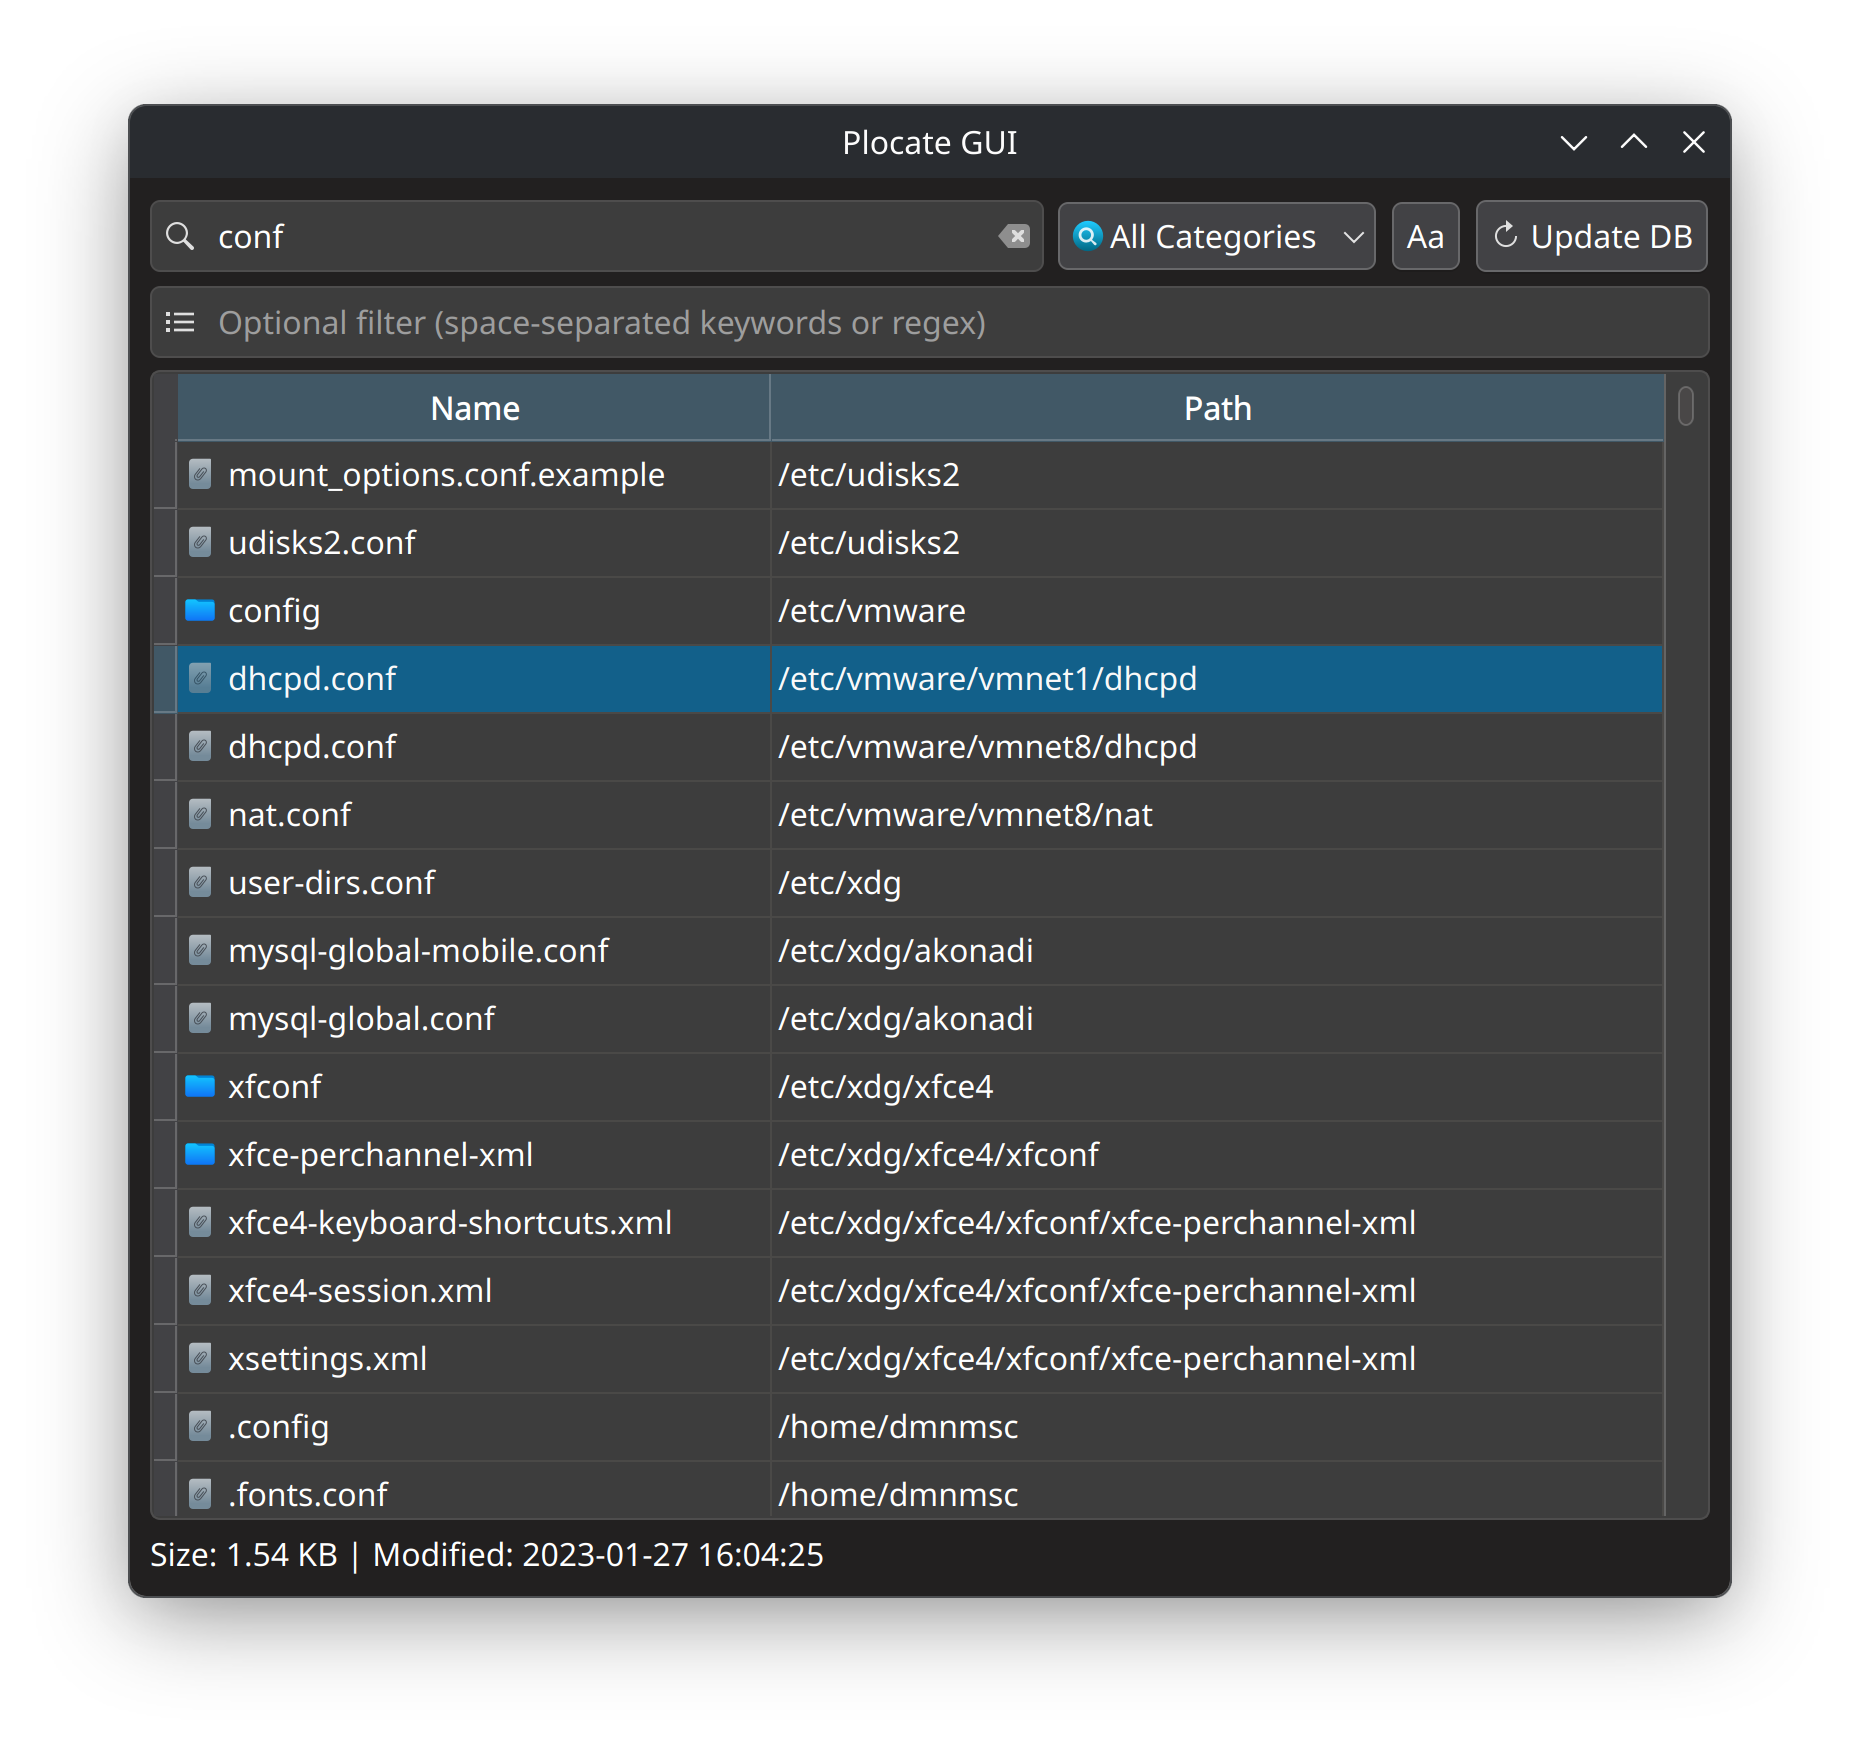
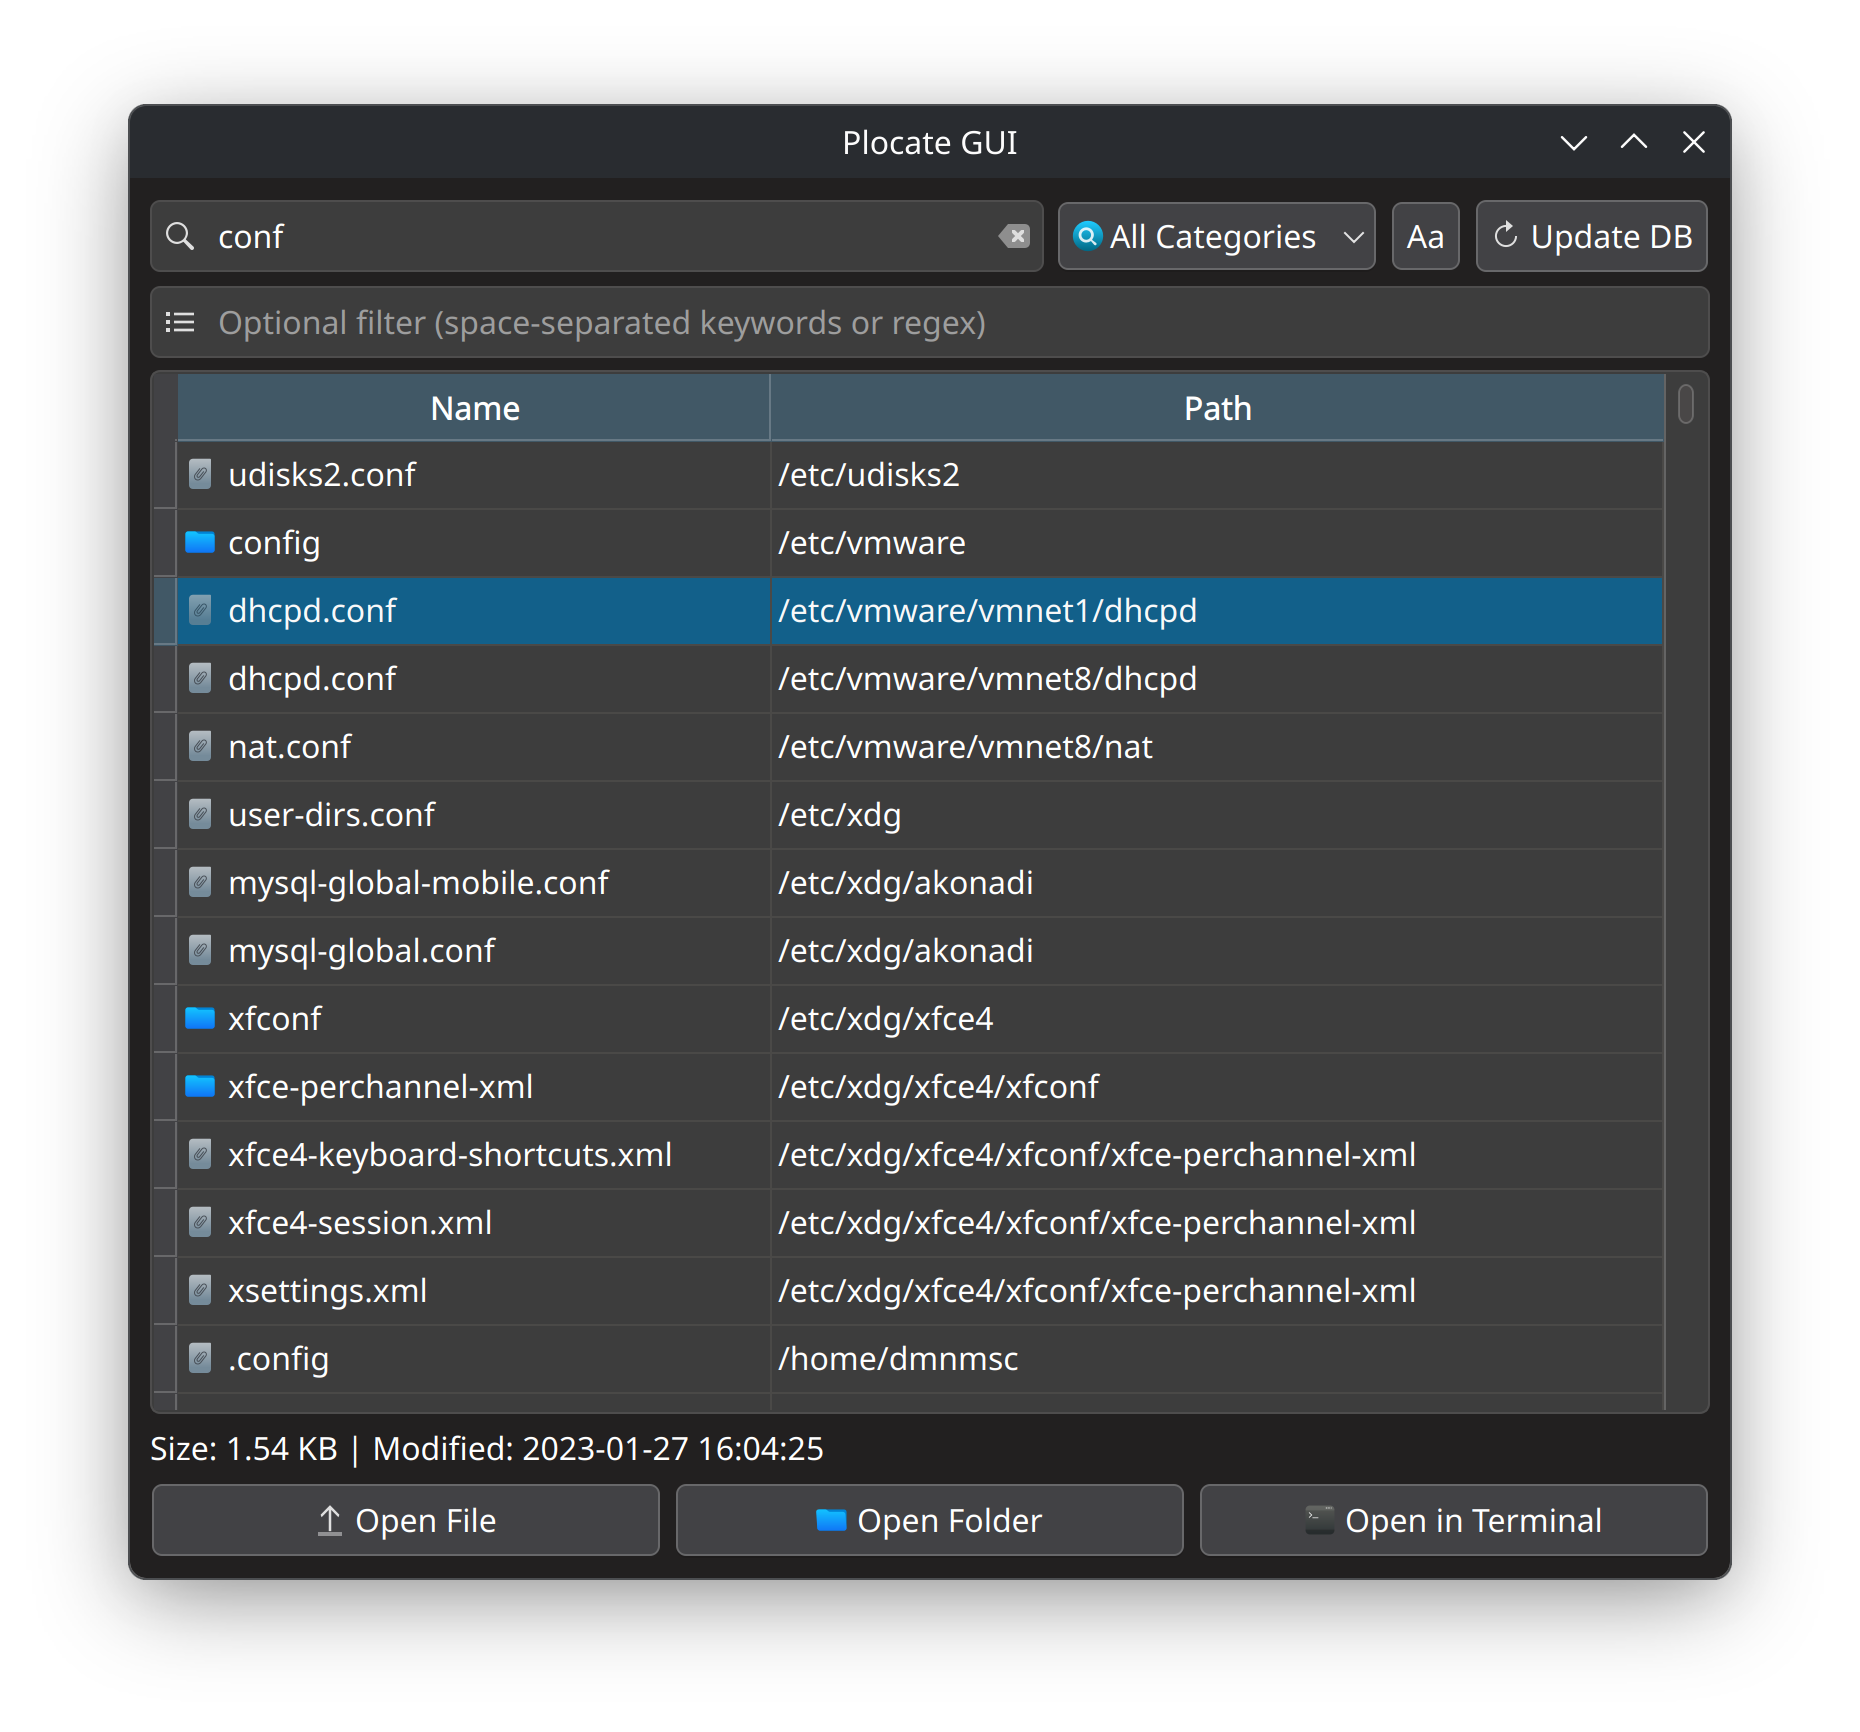
feat: reimplement buttons

diff --git a/plocate-gui.py b/plocate-gui.py
@@ -663,6 +663,33 @@ class PlocateGUI(QWidget):
         # Add the horizontal layout to the main vertical layout
         main_layout.addLayout(status_bar_layout)
 
+        # --- ACTION BUTTONS CONTAINER ---
+        btn_layout = QHBoxLayout()
+
+        # Action Buttons with system icons
+        self.open_file_btn = QPushButton(_("Open File"))
+        self.open_file_btn.setIcon(QIcon.fromTheme("document-open"))
+        self.open_file_btn.setToolTip("ENTER")
+        self.open_file_btn.setToolTipDuration(1500)
+        self.open_file_btn.clicked.connect(self.open_file)
+        btn_layout.addWidget(self.open_file_btn)
+
+        self.open_path_btn = QPushButton(_("Open Folder"))
+        self.open_path_btn.setIcon(QIcon.fromTheme("folder-open"))
+        self.open_path_btn.setToolTip("CTRL+ENTER")
+        self.open_path_btn.setToolTipDuration(1500)
+        self.open_path_btn.clicked.connect(self.open_path)
+        btn_layout.addWidget(self.open_path_btn)
+
+        self.open_in_terminal_btn = QPushButton(_("Open in Terminal"))
+        self.open_in_terminal_btn.setIcon(QIcon.fromTheme("terminal"))
+        self.open_in_terminal_btn.setToolTip(_("CTRL+SHIFT+T"))
+        self.open_in_terminal_btn.setToolTipDuration(1500)
+        self.open_in_terminal_btn.clicked.connect(self.open_in_terminal)
+        btn_layout.addWidget(self.open_in_terminal_btn)
+
+        main_layout.addLayout(btn_layout)
+
         self.setLayout(main_layout)
 
     # --- NEW METHOD: Get Database Modification Status ---
@@ -747,7 +774,7 @@ class PlocateGUI(QWidget):
 
         if text == default_status:
             # Align right for database update time
-            self.status_label.setAlignment(Qt.AlignmentFlag.AlignRight | Qt.AlignmentFlag.AlignVCenter)
+            self.status_label.setAlignment(Qt.AlignmentFlag.AlignLeft | Qt.AlignmentFlag.AlignVCenter)
         else:
             # Align left for dynamic data (count, metadata, date status)
             self.status_label.setAlignment(Qt.AlignmentFlag.AlignLeft | Qt.AlignmentFlag.AlignVCenter)
